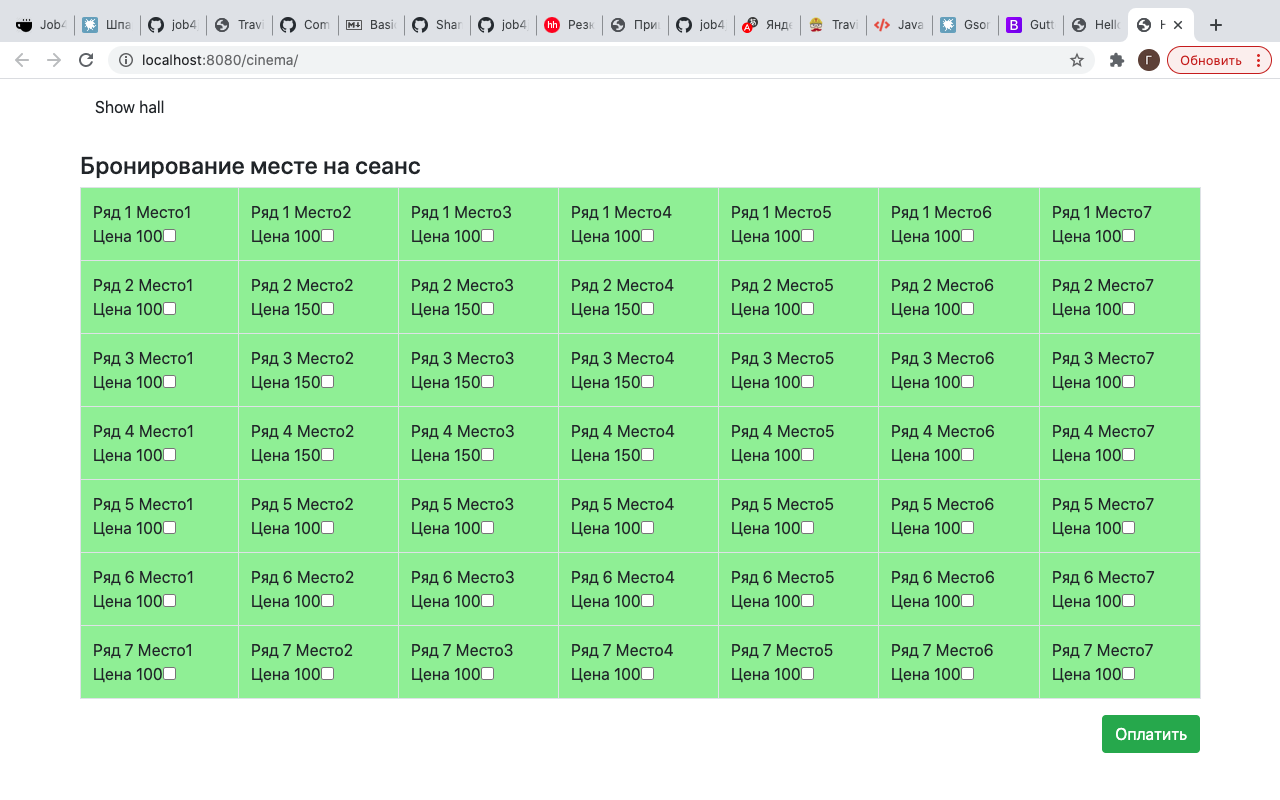
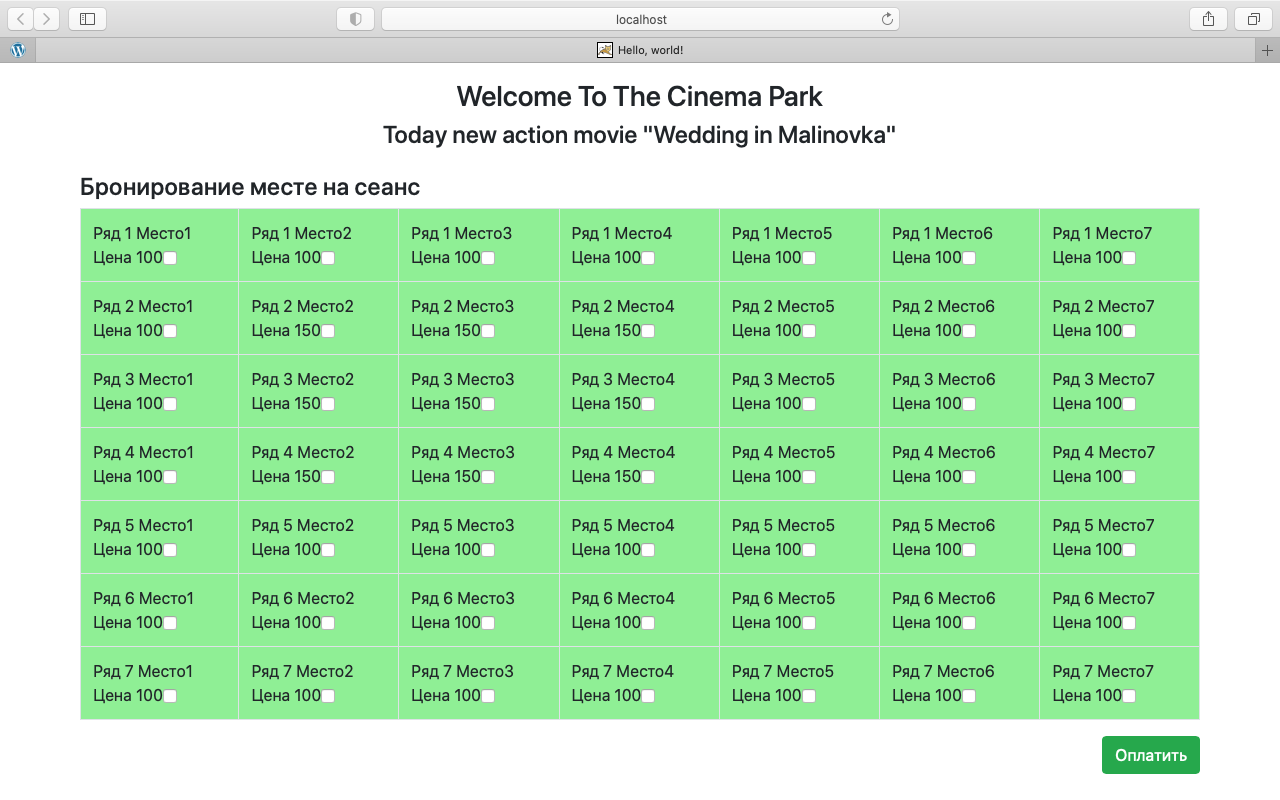
add image

Changed region(s): [[0.0, 0.0, 1.0, 0.9688], [0.0625, 0.125, 0.125, 0.1562]]

diff --git a/src/main/webapp/index.html b/src/main/webapp/index.html
@@ -27,11 +27,13 @@
 <div class="container px-4">
     <div class="row align-items-start">
         <div class="col p-3">
-            <p bg id="showButton">Show hall</p>
+            <h3 bg id="showButton" align="center">Welcome To The Cinema Park</h3>
+
+            <h4 align="center">Today new action movie "Wedding in Malinovka"</h4>
 
             <form id="form">
                 <div class="row pt-3">
-                    <h4>
+                    <h4 align="center">
                         Бронирование месте на сеанс
                     </h4>
                     <table class="table table-bordered" id="table">

diff --git a/README.md b/README.md
@@ -7,3 +7,4 @@
 ![alt text](images/1.png)
 ![alt text](images/2.png)
 ![alt text](images/3.png)
+![alt text](images/4.png)
